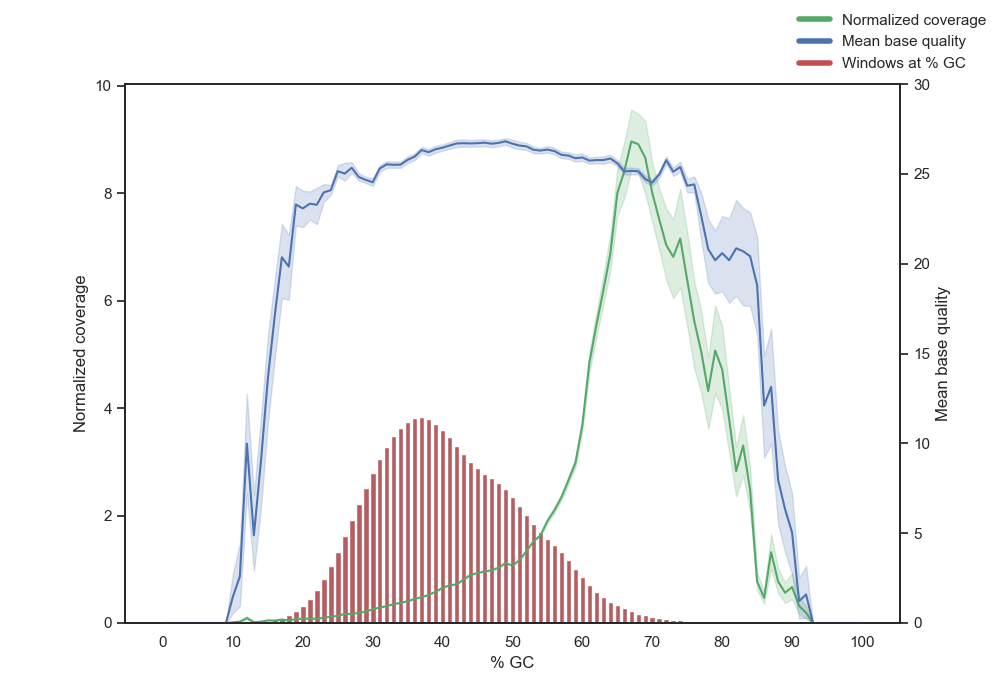
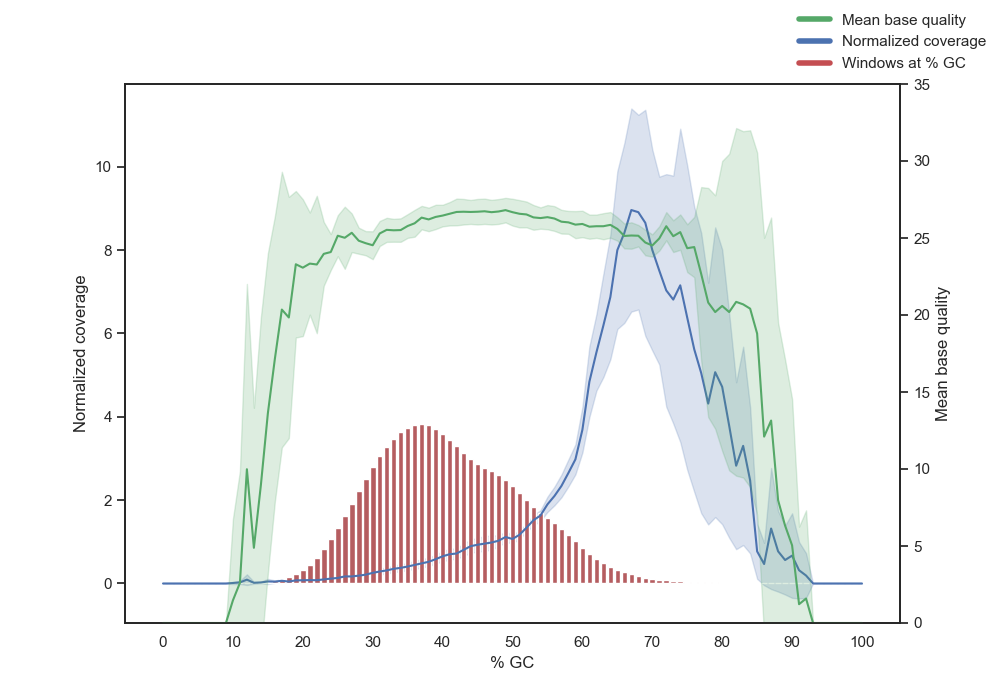
modified gc bias plotting script to create messy normalized coverage plots grouped my technologies

diff --git a/Analyses/Biases/GCBias/gc_bias_plotting.py b/Analyses/Biases/GCBias/gc_bias_plotting.py
@@ -3,11 +3,14 @@ import os
 import seaborn as sns
 import matplotlib.pyplot as plt
 from matplotlib.lines import Line2D
+import re
 
 sns.set()
 sns.set_style("white")
 
 """
+import os
+
 os.chdir('Analyses/Biases/GCBias')
 """
 
@@ -26,27 +29,30 @@ for d in os.listdir('results'):
             else:
                 data = data.append(df)
 
-
 # make a messy explority plot of all the base qualities plotted individually
 ax = sns.lineplot(x="GC", y="MEAN_BASE_QUALITY", hue="SAMPLE", data=data)
 ax.legend_.remove()
+plt.clf()
 
 # Ribbon plot of just the base quality
 ax = sns.lineplot(x="GC", y="MEAN_BASE_QUALITY", data=data)
-ax.legend_.remove()
+plt.clf()
 
 # line plot of NORMALIZED_COVERAGE messy version
-ax = sns.lineplot(x="GC", y="NORMALIZED_COVERAGE", hue="SAMPLE", data=data)
+ax = sns.lineplot(x="GC", y="NORMALIZED_COVERAGE", hue="SAMPLE", data=data, color='b')
 ax.legend_.remove()
+plt.savefig('normalized_coverage_messy.png')
+plt.clf()
 
 # line plot of NORMALIZED_COVERAGE
 ax = sns.lineplot(x="GC", y="NORMALIZED_COVERAGE", data=data)
-ax.legend_.remove()
+plt.clf()
 
 # bar plot
 df['Normalize Windows'] = df['WINDOWS'] / sum(df['WINDOWS'])
-ax = sns.barplot(x="GC", y="Normalize Windows", data=df, color='r').set(xticklabels=[x if x % 10 == 0 else None for x in range(1,100)])
-
+ax = sns.barplot(x="GC", y="Normalize Windows", data=df, color='r').set(
+    xticklabels=[x if x % 10 == 0 else None for x in range(1, 100)])
+plt.clf()
 
 # combined the plots
 # rename column names
@@ -59,13 +65,14 @@ fig = plt.figure(figsize=(10, 7))
 
 # bar plot of windows, windows stacks are the same across all samples so only data from one
 df['Normalize Windows'] = df['WINDOWS'] / sum(df['WINDOWS']) * 100
-ax = sns.barplot(x="GC", y="Normalize Windows", data=df, color='r').set(xticklabels=[x if x % 10 == 0 else None for x in range(0,101)])
+ax = sns.barplot(x="GC", y="Normalize Windows", data=df, color='r').set(
+    xticklabels=[x if x % 10 == 0 else None for x in range(0, 101)])
 
 # make the two line plots
-sns.lineplot(data=data, x='% GC', y='Normalized coverage', color="g")
+sns.lineplot(data=data, x='% GC', y='Normalized coverage', color="b", ci='sd')
 ax2 = plt.twinx()
-splot = sns.lineplot(data=data, x='% GC', y='Mean base quality', color="b", ax=ax2)
-splot.set(ylim=(0, 30))
+splot = sns.lineplot(data=data, x='% GC', y='Mean base quality', color="g", ax=ax2, ci='sd')
+splot.set(ylim=(0, 35))
 
 # define the colors and lines to be used in the legend
 custom_lines = [Line2D([0], [0], color='g', lw=4),
@@ -73,7 +80,94 @@ custom_lines = [Line2D([0], [0], color='g', lw=4),
                 Line2D([0], [0], color='r', lw=4)]
 
 # create a custom legend
-fig.legend(custom_lines, ['Normalized coverage', 'Mean base quality', 'Windows at % GC'], frameon=False)
+fig.legend(custom_lines, ['Mean base quality', 'Normalized coverage', 'Windows at % GC'], frameon=False)
 
 # save the figure
 plt.savefig('gc_bias_summary_plot.png')
+plt.clf()
+
+def make_plot_group_by_name_2():
+    plt.figure(figsize=(10, 7))
+    data = None
+    first = True
+    groups = []
+    for d in os.listdir('results'):
+        groups.append(re.sub('-.*', '', re.sub('^\\w+-', '', d)))
+    colors = ['r', 'b', 'g', 'purple', 'orange']
+    groups = list(set(groups))
+    color_map = { groups[i]:colors[i] for i in range(len(groups))}
+    print(color_map)
+    for d in os.listdir('results'):
+        group = re.sub('-.*', '', re.sub('^\\w+-', '', d))
+        for f in os.listdir('results/' + d):
+            if f == 'gc_bias_metrics.txt':
+                df = pd.read_csv('results/' + d + '/gc_bias_metrics.txt', sep='\t', skiprows=6)
+                plt.plot("GC", 'NORMALIZED_COVERAGE', data=df, color=color_map[group])
+                # plt.plot("GC", "MEAN_BASE_QUALITY", data=df, color='g')
+                df['SAMPLE'] = d
+                if first:
+                    data = df
+                    first = False
+                else:
+                    data = data.append(df)
+
+    # define the colors and lines to be used in the legend
+    custom_lines = [Line2D([0], [0], color=colors[0], lw=4),
+                    Line2D([0], [0], color=colors[1], lw=4),
+                    Line2D([0], [0], color=colors[2], lw=4),
+                    Line2D([0], [0], color=colors[3], lw=4)]
+
+    # create a custom legend
+    plt.legend(custom_lines, groups, frameon=False)
+    plt.xlabel('% GC')
+    plt.ylabel('Normalized coverage')
+    plt.savefig('normalized_coverage_tech_2.png')
+    plt.clf()
+
+make_plot_group_by_name_2()
+
+
+def make_plot_group_by_name_1():
+    plt.figure(figsize=(10, 7))
+    data = None
+    first = True
+    groups = []
+    for d in os.listdir('results'):
+        print(re.sub('-.*-.*', '', d))
+        groups.append(re.sub('-.*-.*', '', d))
+    colors = ['r', 'b', 'g', 'purple', 'orange','y']
+    groups = list(set(groups))
+    print(groups)
+    color_map = { groups[i]:colors[i] for i in range(len(groups))}
+    print(color_map)
+
+    for d in os.listdir('results'):
+        group = re.sub('-.*-.*', '', d)
+        for f in os.listdir('results/' + d):
+            if f == 'gc_bias_metrics.txt':
+                df = pd.read_csv('results/' + d + '/gc_bias_metrics.txt', sep='\t', skiprows=6)
+                plt.plot("GC", 'NORMALIZED_COVERAGE', data=df, color=color_map[group])
+                # plt.plot("GC", "MEAN_BASE_QUALITY", data=df, color='g')
+                df['SAMPLE'] = d
+                if first:
+                    data = df
+                    first = False
+                else:
+                    data = data.append(df)
+
+    # define the colors and lines to be used in the legend
+    custom_lines = [Line2D([0], [0], color=colors[0], lw=4),
+                    Line2D([0], [0], color=colors[1], lw=4),
+                    Line2D([0], [0], color=colors[2], lw=4),
+                    Line2D([0], [0], color=colors[3], lw=4),
+                    Line2D([0], [0], color=colors[4], lw=4),
+                    Line2D([0], [0], color=colors[5], lw=4)]
+
+    # create a custom legend
+    plt.legend(custom_lines, groups, frameon=False)
+    plt.xlabel('% GC')
+    plt.ylabel('Normalized coverage')
+    plt.savefig('normalized_coverage_tech_1.png')
+    plt.clf()
+
+make_plot_group_by_name_1()
